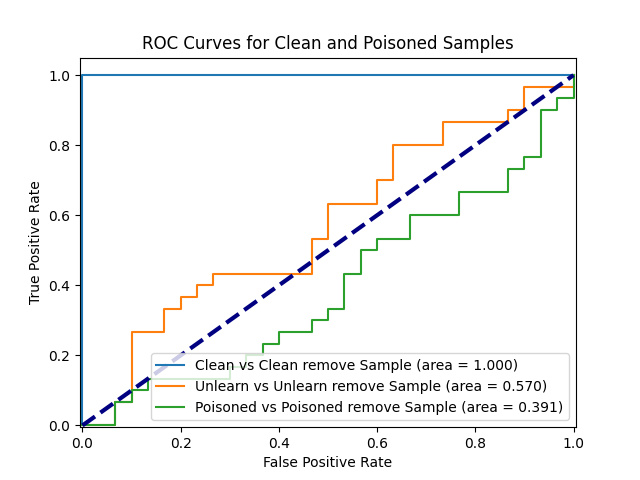
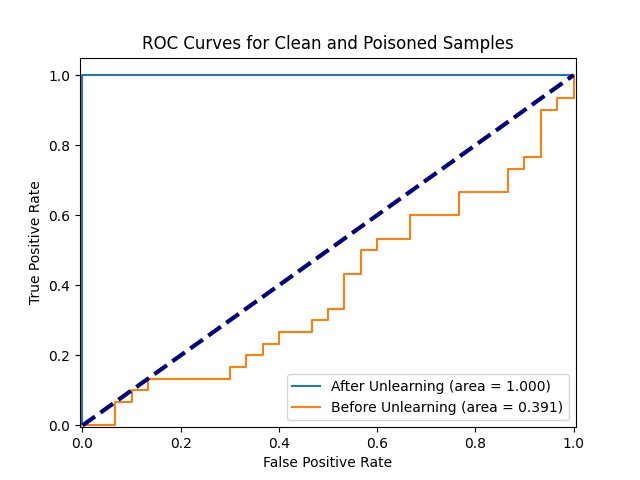
temp

diff --git a/plot.py b/plot.py
@@ -42,8 +42,8 @@ poisoned_labels = []
 for shadow_id in os.listdir(savedir):
     shadow_dir = os.path.join(savedir, shadow_id)
     if os.path.isdir(shadow_dir):
-        for data_type in ['clean', 'clean_removed', 'unlearn', 'unlearn_removed', 'poisoned', 'poisoned_removed']:
-        # for data_type in ['poisoned', 'poisoned_removed', 'unlearn', 'unlearn_removed']:
+        # for data_type in ['clean', 'clean_removed', 'unlearn', 'unlearn_removed', 'poisoned', 'poisoned_removed']:
+        for data_type in ['clean', 'clean_removed', 'poisoned', 'poisoned_removed']:
             scores_path = os.path.join(shadow_dir, data_type, 'scores.npy')
             if os.path.exists(scores_path):
                 scores = np.load(scores_path)
@@ -51,9 +51,9 @@ for shadow_id in os.listdir(savedir):
                 if 'clean' in data_type:
                     clean_scores.append(score)
                     clean_labels.append(1 if data_type == 'clean' else 0)
-                if 'unlearn' in data_type:
-                    unlearn_scores.append(score)
-                    unlearn_labels.append(1 if data_type == 'unlearn' else 0)
+                # if 'unlearn' in data_type:
+                #     unlearn_scores.append(score)
+                #     unlearn_labels.append(1 if data_type == 'unlearn' else 0)
                 elif 'poisoned' in data_type:
                     poisoned_scores.append(score)
                     poisoned_labels.append(1 if data_type == 'poisoned' else 0)
@@ -64,17 +64,17 @@ plt.figure()
 # # Clean vs Clean Removed
 fpr_clean, tpr_clean, thresholds_clean = roc_curve(clean_labels, clean_scores)
 roc_auc_clean = auc(fpr_clean, tpr_clean)
-plt.plot(fpr_clean, tpr_clean, label=f'Clean vs Clean remove Sample (area = {roc_auc_clean:.3f})')
+plt.plot(fpr_clean, tpr_clean, label=f'After Unlearning (area = {roc_auc_clean:.3f})')
 
 # Unlearn vs Unlearn Removed
-fpr_unlearn, tpr_unlearn, thresholds_unlearn = roc_curve(unlearn_labels, unlearn_scores)
-roc_auc_unlearn = auc(fpr_unlearn, tpr_unlearn)
-plt.plot(fpr_unlearn, tpr_unlearn, label=f'Unlearn vs Unlearn remove Sample (area = {roc_auc_unlearn:.3f})')
+# fpr_unlearn, tpr_unlearn, thresholds_unlearn = roc_curve(unlearn_labels, unlearn_scores)
+# roc_auc_unlearn = auc(fpr_unlearn, tpr_unlearn)
+# plt.plot(fpr_unlearn, tpr_unlearn, label=f'Unlearn vs Unlearn remove Sample (area = {roc_auc_unlearn:.3f})')
 
 # Poisoned vs Poisoned Removed
 fpr_poisoned, tpr_poisoned, thresholds_poisoned = roc_curve(poisoned_labels, poisoned_scores)
 roc_auc_poisoned = auc(fpr_poisoned, tpr_poisoned)
-plt.plot(fpr_poisoned, tpr_poisoned, label=f'Poisoned vs Poisoned remove Sample (area = {roc_auc_poisoned:.3f})')
+plt.plot(fpr_poisoned, tpr_poisoned, label=f'Before Unlearning (area = {roc_auc_poisoned:.3f})')
 
 directory = f'save/{args.dataset}/{args.model}/{args.poison_type}/'
 if not os.path.exists(directory):
@@ -93,38 +93,38 @@ plt.show()
 plt.close()
 
 AdvMIA = roc_auc_poisoned
-AdvUL_MIA_unlearn = roc_auc_unlearn
+# AdvUL_MIA_unlearn = roc_auc_unlearn
 AdvUL_MIA_clean = roc_auc_clean
 
 print("\n====== ROC ======")
-print(f"AdvUL_MIA (近似遗忘后优势): {AdvUL_MIA_unlearn:.3f}")
+# print(f"AdvUL_MIA (近似遗忘后优势): {AdvUL_MIA_unlearn:.3f}")
 print(f"AdvUL_MIA (完全重训练后优势): {AdvUL_MIA_clean:.3f}")
 print(f"Adv_MIA (投毒后优势): {AdvMIA:.3f}")
 print("=== 结果 ===")
-print(f"AdvUL（近似遗忘）: {(AdvUL_MIA_unlearn-AdvMIA):.3f}")
+# print(f"AdvUL（近似遗忘）: {(AdvUL_MIA_unlearn-AdvMIA):.3f}")
 print(f"AdvUL（完全重训练）: {(AdvUL_MIA_clean-AdvMIA):.3f}")
 
 # 找到最佳阈值
 optimal_idx_clean = np.argmax(tpr_clean - fpr_clean)
 optimal_threshold_clean = thresholds_clean[optimal_idx_clean]
 
-optimal_idx_unlearn = np.argmax(tpr_unlearn - fpr_unlearn)
-optimal_threshold_unlearn = thresholds_unlearn[optimal_idx_unlearn]
+# optimal_idx_unlearn = np.argmax(tpr_unlearn - fpr_unlearn)
+# optimal_threshold_unlearn = thresholds_unlearn[optimal_idx_unlearn]
 
 optimal_idx_poisoned = np.argmax(tpr_poisoned - fpr_poisoned)
 optimal_threshold_poisoned = thresholds_poisoned[optimal_idx_poisoned]
 
 # 计算每个类别的概率
 clean_probs, clean_removed_probs = calculate_probabilities(clean_scores, optimal_threshold_clean)
-unlearn_probs, unlearn_removed_probs = calculate_probabilities(unlearn_scores, optimal_threshold_unlearn)
+# unlearn_probs, unlearn_removed_probs = calculate_probabilities(unlearn_scores, optimal_threshold_unlearn)
 poisoned_probs, poisoned_removed_probs = calculate_probabilities(poisoned_scores, optimal_threshold_poisoned)
 
 print("\n====== Probs ======")
 
-print("=== Unlearn ===")
-print(f"Unlearn probabilities: {unlearn_probs:.3f}")
-print(f"Unlearn removed probabilities: {unlearn_removed_probs:.3f}")
-print(f"Adv_Unlearn: {(unlearn_probs-unlearn_removed_probs):.3f}")
+# print("=== Unlearn ===")
+# print(f"Unlearn probabilities: {unlearn_probs:.3f}")
+# print(f"Unlearn removed probabilities: {unlearn_removed_probs:.3f}")
+# print(f"Adv_Unlearn: {(unlearn_probs-unlearn_removed_probs):.3f}")
 
 # print("=== Clean ===")
 print(f"Clean probabilities: {clean_probs:.3f}")
@@ -137,5 +137,5 @@ print(f"Poisoned removed probabilities: {poisoned_removed_probs:.3f}")
 print(f"Adv_Poisoned: {(poisoned_probs-poisoned_removed_probs):.3f}")
 
 print("=== 结果 ===")
-print(f"AdvUL（近似遗忘）: {((unlearn_probs-unlearn_removed_probs)-(poisoned_probs-poisoned_removed_probs)):.3f}")
+# print(f"AdvUL（近似遗忘）: {((unlearn_probs-unlearn_removed_probs)-(poisoned_probs-poisoned_removed_probs)):.3f}")
 print(f"AdvUL（完全重训练）: {((clean_probs-clean_removed_probs)-(poisoned_probs-poisoned_removed_probs)):.3f}")

diff --git a/main.py b/main.py
@@ -27,6 +27,7 @@ def main():
     parser.add_argument("--lr", default=0.1, type=float)
     parser.add_argument("--epochs", default=1, type=int)
     parser.add_argument("--n_shadows", default=16, type=int)
+    parser.add_argument("--num_per_label", default=8, type=int)
     parser.add_argument("--shadow_id", default=1, type=int)
     parser.add_argument("--model", default="resnet18", type=str)
     parser.add_argument("--pkeep", default=0.5, type=float)
@@ -66,12 +67,12 @@ def main():
         poisoner.poison_fixed_label(args.fixed_label, args.use_original_label)
     elif args.poison_type == "flipped_label":
         print("poison_type: flipped_label")
-        poisoner.poison_flipped_and_fixed_labels(args.fixed_label, args.use_original_label)
+        poisoner.poison_flipped_and_fixed_labels(args.fixed_label, args.use_original_label, args.num_per_label)
 
     # 获取投毒后的数据加载器
     poisoned_train_ds, unlearn_ds, flipped_ds = poisoner.get_poisoned_data_loader()
 
-    # # =========== 投毒数据集
+    # =========== 投毒数据集
     # print(f"=== Size of poisoned train_dl: {len(poisoned_train_ds)}")
     # print(poisoned_train_ds.targets[:10])
     # train(args, savedir, poisoned_train_ds, test_dl, DEVICE, "poisoned")
@@ -88,33 +89,33 @@ def main():
 
 
 
-    # # # =========== 重训练数据集
-    # print(f"=== Size of clean train_dl: {len(train_ds)}")
-    # print(train_ds.targets[:10])
-    # unlearn_flipped_ds = ConcatDataset([train_ds, flipped_ds])
-    # unlearn_flipped_ds = CustomDataset(unlearn_flipped_ds)
-    # train(args, savedir, unlearn_flipped_ds, test_dl, DEVICE, "clean")
-    # inference(args, savedir, train_ds, DEVICE, "clean")
-    # score(args, savedir, train_ds, "clean") 
+    # =========== 重训练数据集
+    print(f"=== Size of clean train_dl: {len(train_ds)}")
+    print(train_ds.targets[:10])
+    unlearn_flipped_ds = ConcatDataset([train_ds, flipped_ds])
+    unlearn_flipped_ds = CustomDataset(unlearn_flipped_ds)
+    train(args, savedir, unlearn_flipped_ds, test_dl, DEVICE, "clean")
+    inference(args, savedir, train_ds, DEVICE, "clean")
+    score(args, savedir, train_ds, "clean") 
 
-    # train_removed_ds = remove_samples(train_ds, args.target_sample)
+    train_removed_ds = remove_samples(train_ds, args.target_sample)
 
-    # print(f"=== Size of clean removed train_dl: {len(train_removed_ds)}")
-    # print(train_removed_ds.targets[:10])
-    # unlearn_flipped_removed_ds = ConcatDataset([train_removed_ds, flipped_ds])
-    # unlearn_flipped_removed_ds = CustomDataset(unlearn_flipped_removed_ds)
-    # train(args, savedir, unlearn_flipped_removed_ds, test_dl, DEVICE, "clean_removed")
-    # inference(args, savedir, train_ds, DEVICE, "clean_removed")
-    # score(args, savedir, train_ds, "clean_removed")
+    print(f"=== Size of clean removed train_dl: {len(train_removed_ds)}")
+    print(train_removed_ds.targets[:10])
+    unlearn_flipped_removed_ds = ConcatDataset([train_removed_ds, flipped_ds])
+    unlearn_flipped_removed_ds = CustomDataset(unlearn_flipped_removed_ds)
+    train(args, savedir, unlearn_flipped_removed_ds, test_dl, DEVICE, "clean_removed")
+    inference(args, savedir, train_ds, DEVICE, "clean_removed")
+    score(args, savedir, train_ds, "clean_removed")
 
     # # =========== 近似遗忘
-    unlearn_unrolling_sgd(args, savedir, unlearn_ds, test_dl, DEVICE, "unlearn")
-    inference(args, savedir, poisoned_train_ds, DEVICE, "unlearn")
-    score(args, savedir, poisoned_train_ds, "unlearn")
+    # unlearn_unrolling_sgd(args, savedir, unlearn_ds, test_dl, DEVICE, "unlearn")
+    # inference(args, savedir, poisoned_train_ds, DEVICE, "unlearn")
+    # score(args, savedir, poisoned_train_ds, "unlearn")
 
-    unlearn_unrolling_sgd(args, savedir, unlearn_ds, test_dl, DEVICE, "unlearn_removed")
-    inference(args, savedir, poisoned_train_ds, DEVICE, "unlearn_removed")
-    score(args, savedir, poisoned_train_ds, "unlearn_removed") 
+    # unlearn_unrolling_sgd(args, savedir, unlearn_ds, test_dl, DEVICE, "unlearn_removed")
+    # inference(args, savedir, poisoned_train_ds, DEVICE, "unlearn_removed")
+    # score(args, savedir, poisoned_train_ds, "unlearn_removed") 
 
 
 if __name__ == "__main__":

diff --git a/poisoner.py b/poisoner.py
@@ -76,12 +76,12 @@ class Poisoner:
             self.unlearn_dataset.append((data, label))
         self._apply_poison()
 
-    def poison_flipped_and_fixed_labels(self, fixed_label, use_original_label=False):
+    def poison_flipped_and_fixed_labels(self, fixed_label, use_original_label=False,num_per_label=8):
         poison_index = self.args.target_sample
         print(f'poison_index:{poison_index}')
 
         # y' != y
-        num_per_label = 4
+        num_per_label = num_per_label
         all_labels = list(range(10))
         data, original_label = self.train_ds[poison_index]
 
